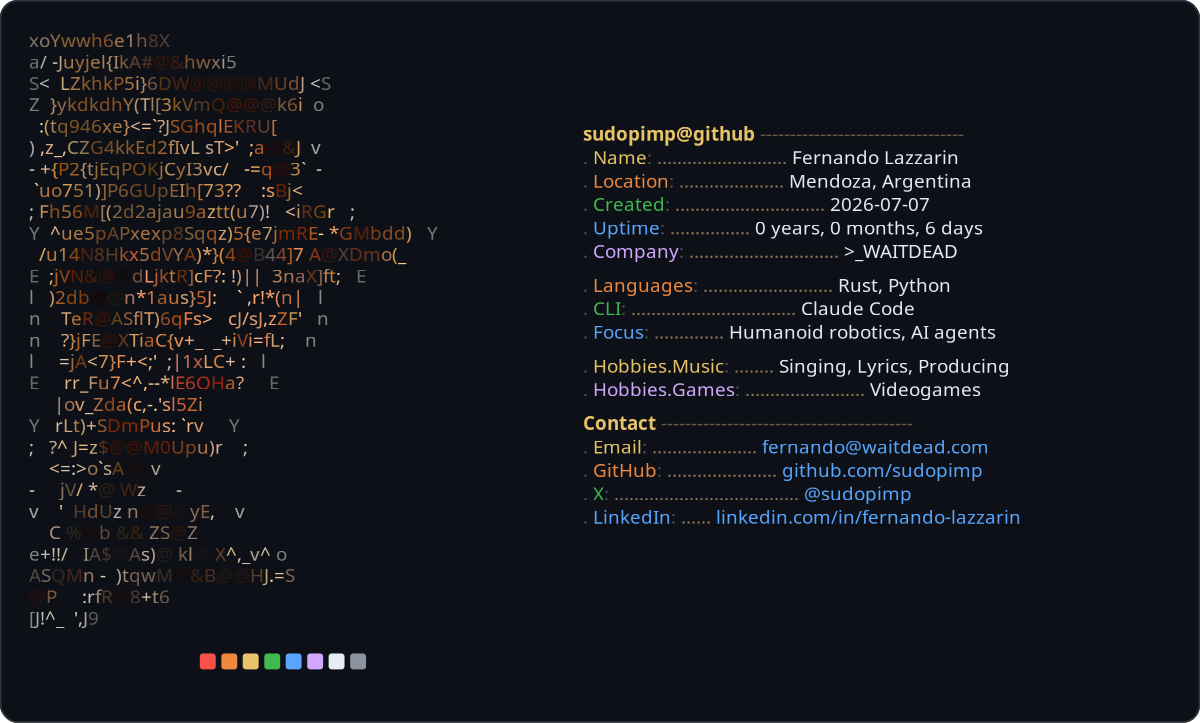
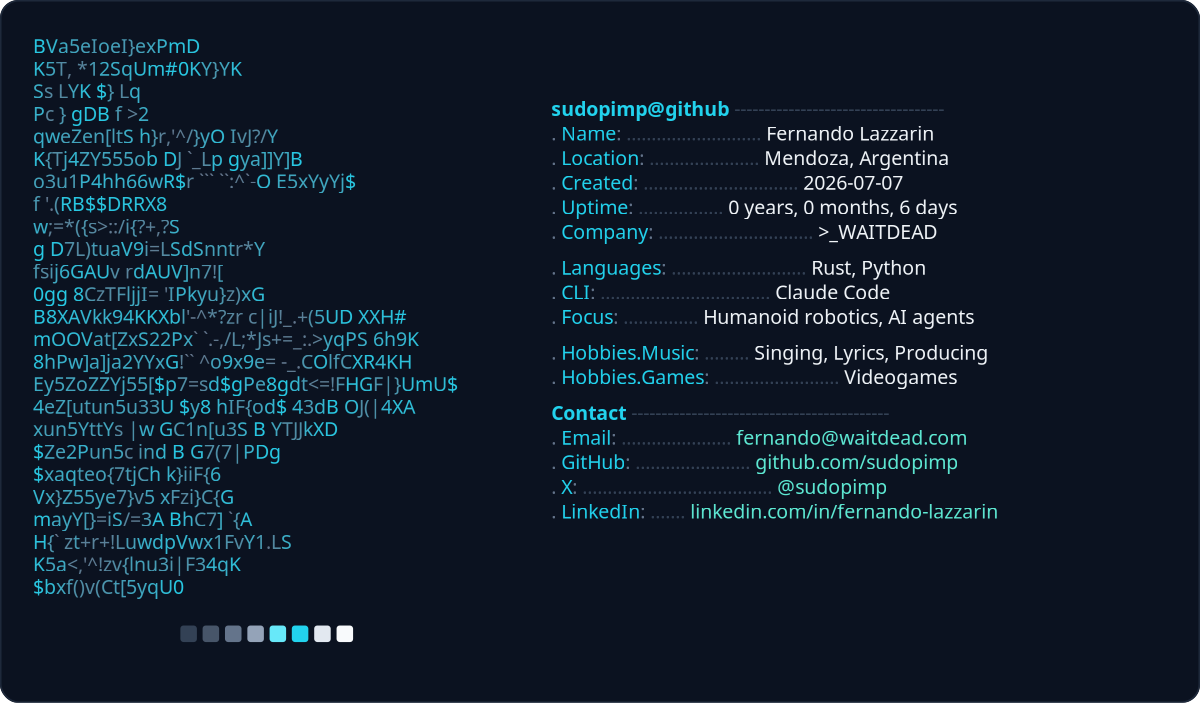
Restyle profile card to cyan, white, and grey only
Monochrome ASCII from Fernando photo with density-based cyan/slate
glyphs. Drop rainbow field colors. Static dark/light PNGs for reliable
render; robot remains the profile avatar asset.

diff --git a/README.md b/README.md
@@ -1,21 +1,16 @@
 <!-- github-profile-readme -->
-<!-- ASCII neofetch: real photo → characters via jeantimex/neofetch-profile -->
-<!-- GitHub profile picture: robot avatar (upload assets/github-avatar.png in settings) -->
+<!-- Cyan / white / grey ASCII neofetch — photo glyphs, robot is GH avatar -->
 
 <p align="center">
-  <a href="https://github.com/jeantimex/neofetch-profile">
-    <picture>
-      <source
-        media="(prefers-color-scheme: dark)"
-        srcset="https://neofetch-profile.vercel.app/api?username=sudopimp&theme=github-dark&config=https%3A%2F%2Fraw.githubusercontent.com%2Fsudopimp%2Fsudopimp%2Fmain%2Fneofetch.v4.json&v=5"
-      />
-      <img
-        alt="sudopimp@github — ASCII neofetch"
-        width="900"
-        src="https://neofetch-profile.vercel.app/api?username=sudopimp&theme=github-light&config=https%3A%2F%2Fraw.githubusercontent.com%2Fsudopimp%2Fsudopimp%2Fmain%2Fneofetch.v4.json&v=5"
-      />
-    </picture>
-  </a>
+  <picture>
+    <source media="(prefers-color-scheme: dark)" srcset="https://raw.githubusercontent.com/sudopimp/sudopimp/main/neofetch-dark.png?v=6" />
+    <source media="(prefers-color-scheme: light)" srcset="https://raw.githubusercontent.com/sudopimp/sudopimp/main/neofetch-light.png?v=6" />
+    <img
+      alt="sudopimp@github — ASCII neofetch"
+      width="900"
+      src="https://raw.githubusercontent.com/sudopimp/sudopimp/main/neofetch-dark.png?v=6"
+    />
+  </picture>
 </p>
 
 <p align="center">
@@ -61,7 +56,7 @@ Singing · writing lyrics · producing · videogames
 
 <p align="center">
   <sub>
-    ASCII card via
+    Cyan/grey ASCII card ·
     <a href="https://github.com/jeantimex/neofetch-profile">neofetch-profile</a>
     · photo → glyphs · robot face is the profile avatar
   </sub>

diff --git a/SETUP.md b/SETUP.md
@@ -1,18 +1,25 @@
-# sudopimp profile — true ASCII
+# sudopimp profile
 
-The profile README embeds the **live** [neofetch-profile](https://github.com/jeantimex/neofetch-profile) API.
-That service converts your image into **ASCII characters** (same as the original demo).
+## Split assets
 
-| File | Role |
-|------|------|
-| `neofetch.json` | Config (fields + robot image URL) |
-| `assets/robot-ascii.png` | Face fed into ASCII converter |
-| `neofetch-ascii-*.png` | Optional static glyph card |
-| `ascii-art.txt` | Plain-text glyph dump |
+| Use | File | Notes |
+|-----|------|--------|
+| **ASCII card** (README) | `assets/me.png` | Your real photo → glyphs via neofetch-profile API |
+| **GitHub profile picture** | `assets/github-avatar.png` | Robot face — upload manually in settings |
+| Config | `neofetch.v4.json` / `neofetch.json` | Points ASCII at `me.png` |
 
-## Identity for commits (required)
+## Set the robot as GitHub avatar (manual)
+
+API cannot set the avatar. Do this once:
+
+1. Open https://github.com/settings/profile  
+2. Click the avatar → upload `assets/github-avatar.png` (robot)  
+3. Save  
+
+## Commit identity (required)
 
 ```bash
 git config --local user.name "sudopimp"
 git config --local user.email "301054894+sudopimp@users.noreply.github.com"
+gh api user --jq .login   # must print sudopimp
 ```
